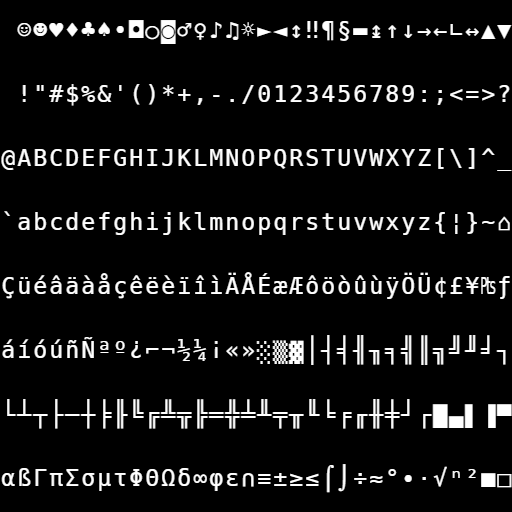
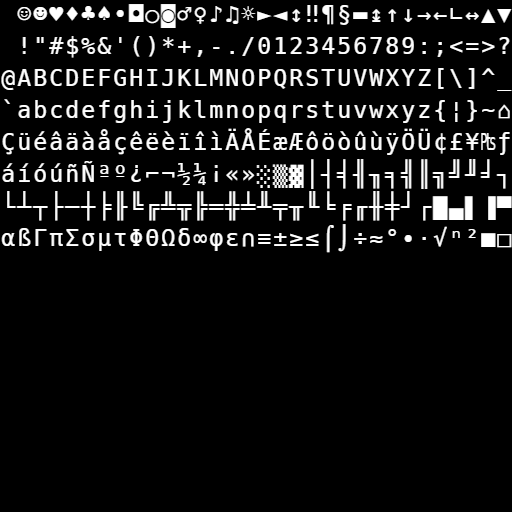
Support variable resolution grids

diff --git a/Window.cpp b/Window.cpp
@@ -19,7 +19,7 @@ Window::Window()
 	SDL_GL_SetAttribute(SDL_GL_DOUBLEBUFFER, 1); // Enable double buffering
 	SDL_GL_SetAttribute(SDL_GL_DEPTH_SIZE, 24);  // Depth buffer size
 
-	m_pWindow = SDL_CreateWindow("Notly", SDL_WINDOWPOS_CENTERED, SDL_WINDOWPOS_CENTERED, 480, 512, SDL_WINDOW_SHOWN | SDL_WINDOW_OPENGL);
+	m_pWindow = SDL_CreateWindow("Notly", SDL_WINDOWPOS_CENTERED, SDL_WINDOWPOS_CENTERED, 1024, 480, SDL_WINDOW_SHOWN | SDL_WINDOW_OPENGL | SDL_WINDOW_RESIZABLE);
 
 	if (m_pWindow == nullptr)
 	{
@@ -104,7 +104,7 @@ void Window::CreateShader()
 	glTexParameteri(GL_TEXTURE_2D, GL_TEXTURE_MAG_FILTER, GL_LINEAR);
 	stbi_set_flip_vertically_on_load(true);
 	int w, h, channels;
-	unsigned char* data = stbi_load("MonospaceAtlas.png", &w, &h, &channels, 0);
+	unsigned char* data = stbi_load("MonospaceAtlas1.png", &w, &h, &channels, 0);
 	if (!data)
 	{
 		SDL_Log("failed to load atlas");
@@ -167,7 +167,10 @@ void Window::TestStuff()
 	SDL_GetWindowSize(m_pWindow, &w, &h);
 
 
-	//glViewport(0, 0, w, h / 2);
+	// 16, 32
+	//w = w - w % 16;
+	//h = h - h % 32;
+	glViewport(0, 0, w, h);
 	glClearColor(0.2f, 0.3f, 0.3f, 1.f);
 	glClear(GL_COLOR_BUFFER_BIT);
 

diff --git a/Window.h b/Window.h
@@ -26,7 +26,7 @@ private:
 
 	std::unique_ptr<Shader> m_pShader = nullptr;
 
-	std::string m_TextBuffer = "Hello world!";
+	std::string m_TextBuffer = "Hello world! Lorem ipsum dolor sit ames constectetur adipiscin elit. (from memory!)";
 	//std::string m_TextBuffer = "☺☻♥♦♣♠•◘○◙♂♀♪♫☼►◄↕‼¶§";
 	//std::vector<GLuint> m_TextBufferConverted = {0, 1, 16, 17, 32, 33, 64, 65};
 	std::vector<GLuint> m_TextBufferConverted;
